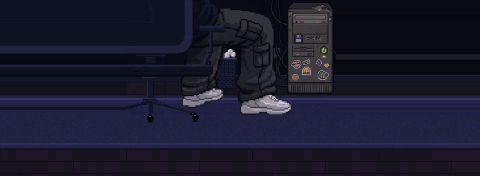
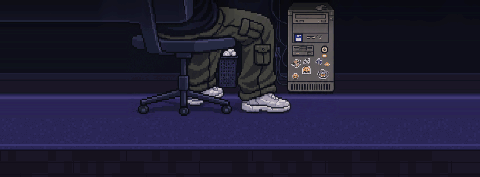
Fix mobile room seams and refine lower scene

diff --git a/personal-portfolio/src/os/Room.jsx b/personal-portfolio/src/os/Room.jsx
@@ -193,11 +193,13 @@ const at = (x, y, w, h, name) => ({ left: x, top: y, width: w, height: h, backgr
 function Beyond() {
   return (
     <>
+      {/* Each goes one row into the picture, underneath it (room.css), so that
+          no hairline shows where they meet at any scale. */}
       <img
         className="nos-room__ext"
         src="/room/m-top.png"
         width="480"
-        height="128"
+        height="129"
         alt=""
         draggable={false}
         style={{ top: -128 }}
@@ -206,10 +208,10 @@ function Beyond() {
         className="nos-room__ext"
         src="/room/m-bottom.png"
         width="480"
-        height="176"
+        height="177"
         alt=""
         draggable={false}
-        style={{ top: 270 }}
+        style={{ top: 269 }}
       />
       {/* the neon sign, lit (it flickers), and the glow-in-the-dark stars */}
       <i className="nos-room__glow is-neon" style={at(196, -96, 60, 36, 'm-neon')} />
@@ -221,7 +223,7 @@ function Beyond() {
       />
       <i className="nos-room__led" style={{ left: 263, top: -42, color: '#6ef2b0', animationDuration: '3.1s' }} />
       {/* the old tower under the desk: the light under its power button blinks */}
-      <i className="nos-room__led" style={{ left: 323, top: 326, width: 2, color: '#ffc08a' }} />
+      <i className="nos-room__led" style={{ left: 323, top: 324, width: 3, color: '#ffc08a' }} />
     </>
   )
 }

diff --git a/personal-portfolio/src/os/room.css b/personal-portfolio/src/os/room.css
@@ -606,6 +606,7 @@
 /* ---------- Phones: more room above and below the picture ---------- */
 .nos-room__ext {
   position: absolute;
+  z-index: -1; /* under the picture where they overlap it */
   left: 0;
   display: block;
   max-width: none;
